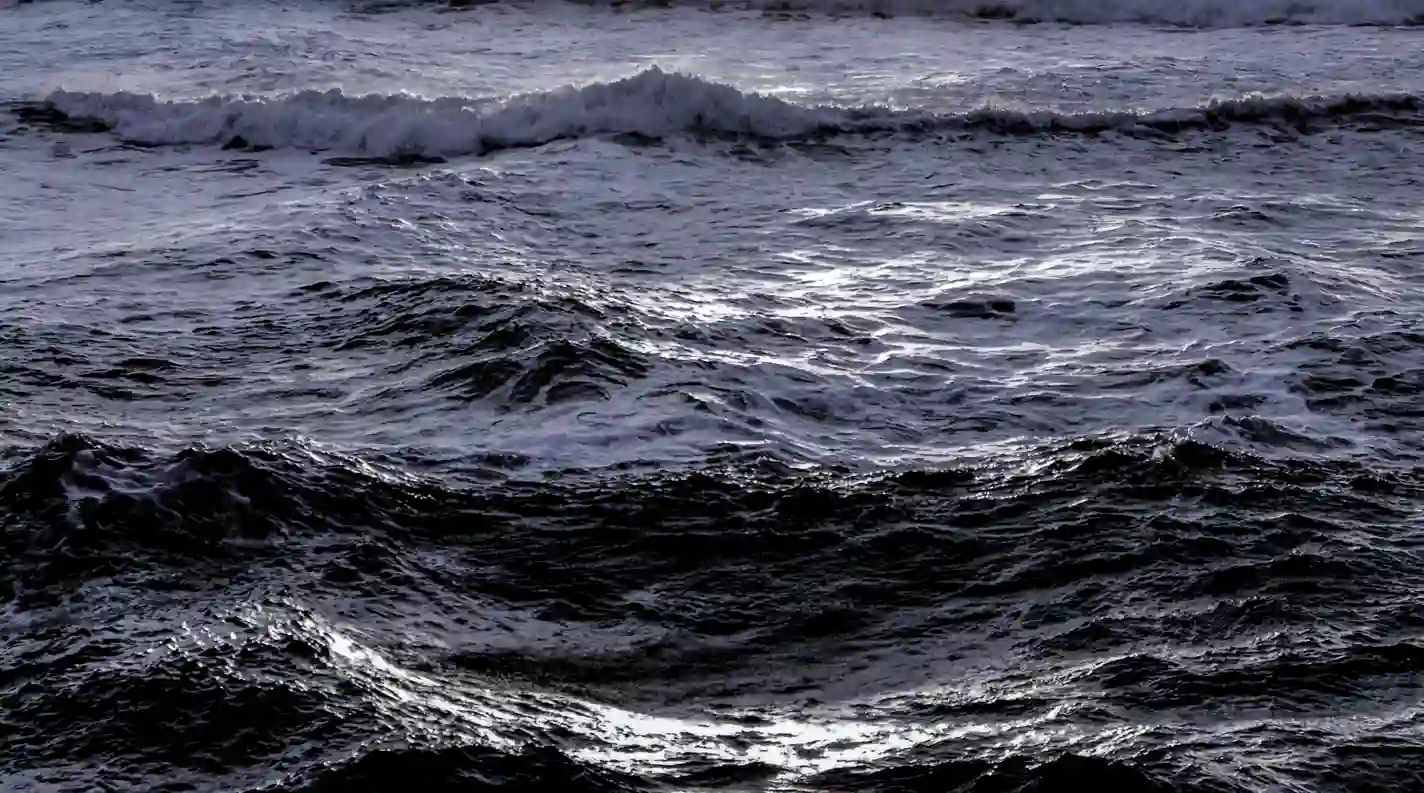
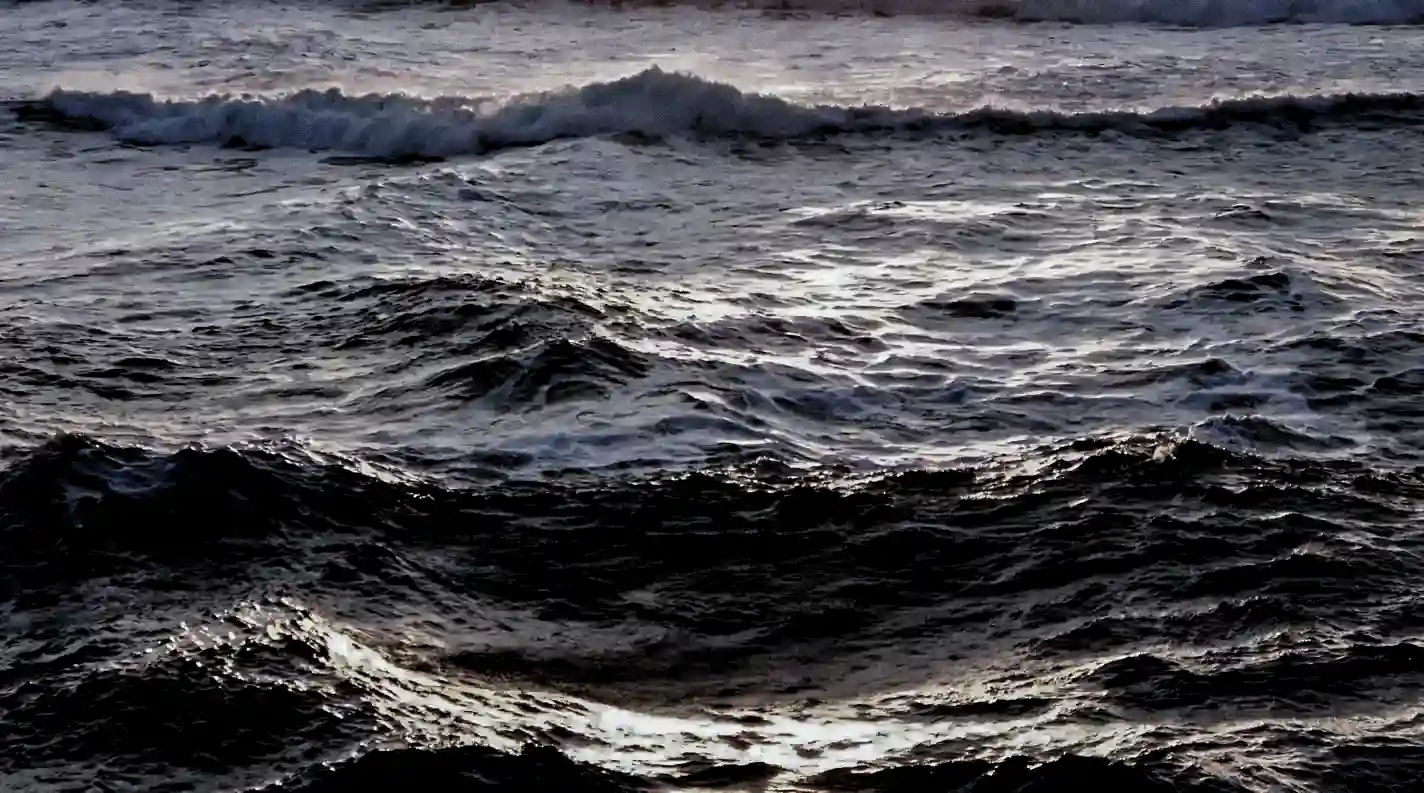
replaced Services bg day and night photos with versions that better line up to disguise transition on color mode toggling

diff --git a/src/components/EditDeleteProjectModal/EditDeleteProjectModal.jsx b/src/components/EditDeleteProjectModal/EditDeleteProjectModal.jsx
@@ -84,14 +84,6 @@ const EditDeleteProjectModal = ({
 
       setProjectsData(c => c.filter((summary) => summary.project_id !== projectID));
 
-      // setLightBoxImages(c => 
-      //   c.filter((image) => image.img_id !== projectID).map(({ img_id, img_alt, img_src }) => ({
-      //     img_id,
-      //     img_alt,
-      //     img_src
-      //   }))
-      // );
-
       toast.success(message);  
     } catch(error) {
       console.error('Error deleting project:', error);

diff --git a/src/partials/_mixins.scss b/src/partials/_mixins.scss
@@ -628,7 +628,7 @@
 @mixin servicesBg {
 	// background repeat and size not being applied from mixin: important used as a fix
 	background-size: cover !important;
-	background-position: center center;
+	background-position: center center !important;
 	background-repeat: no-repeat !important;
 	height: 100%;
 	position: absolute;

diff --git a/src/components/Services/Services.jsx b/src/components/Services/Services.jsx
@@ -1,4 +1,3 @@
-import { useAppContext } from "../../contexts/AppContext.jsx";
 import { FaGlobe, FaCode, FaCartShopping } from "react-icons/fa6";
 import "./Services.scss";
 
@@ -27,9 +26,6 @@ const services = [
 ];
 
 const Services = () => {
-  const { 
-    colorMode
-   } = useAppContext();
   
   return (
     <>  
